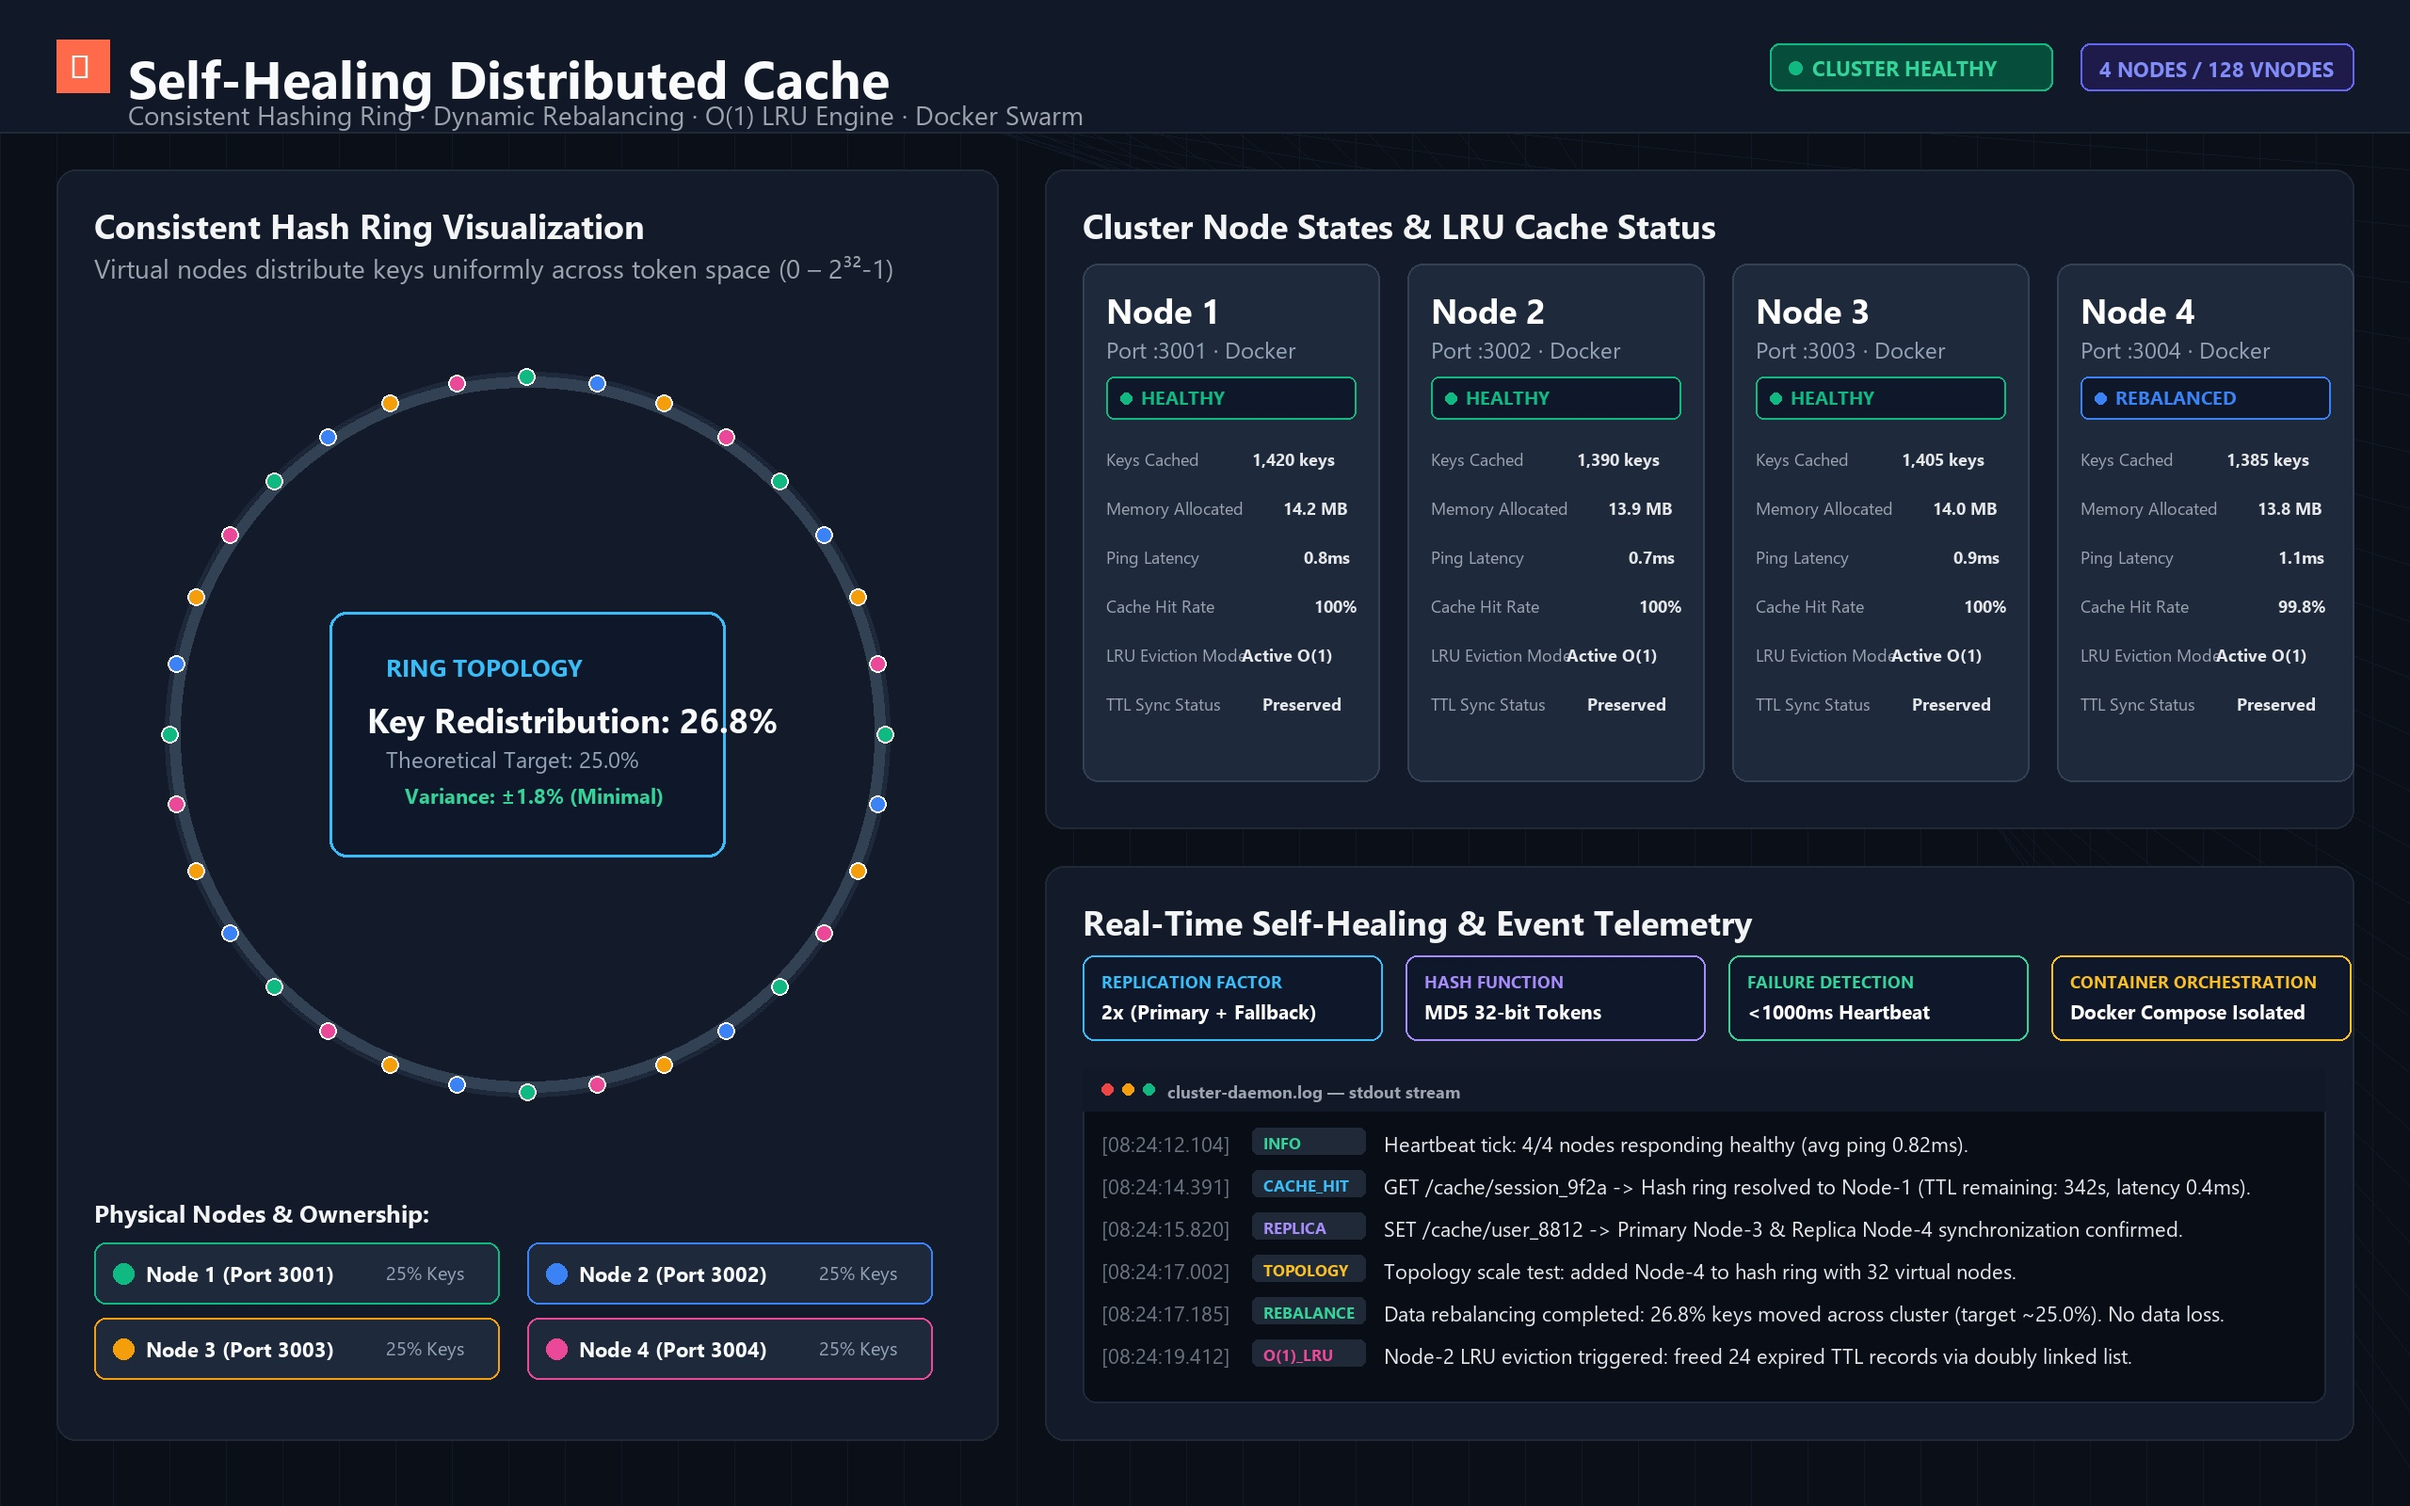
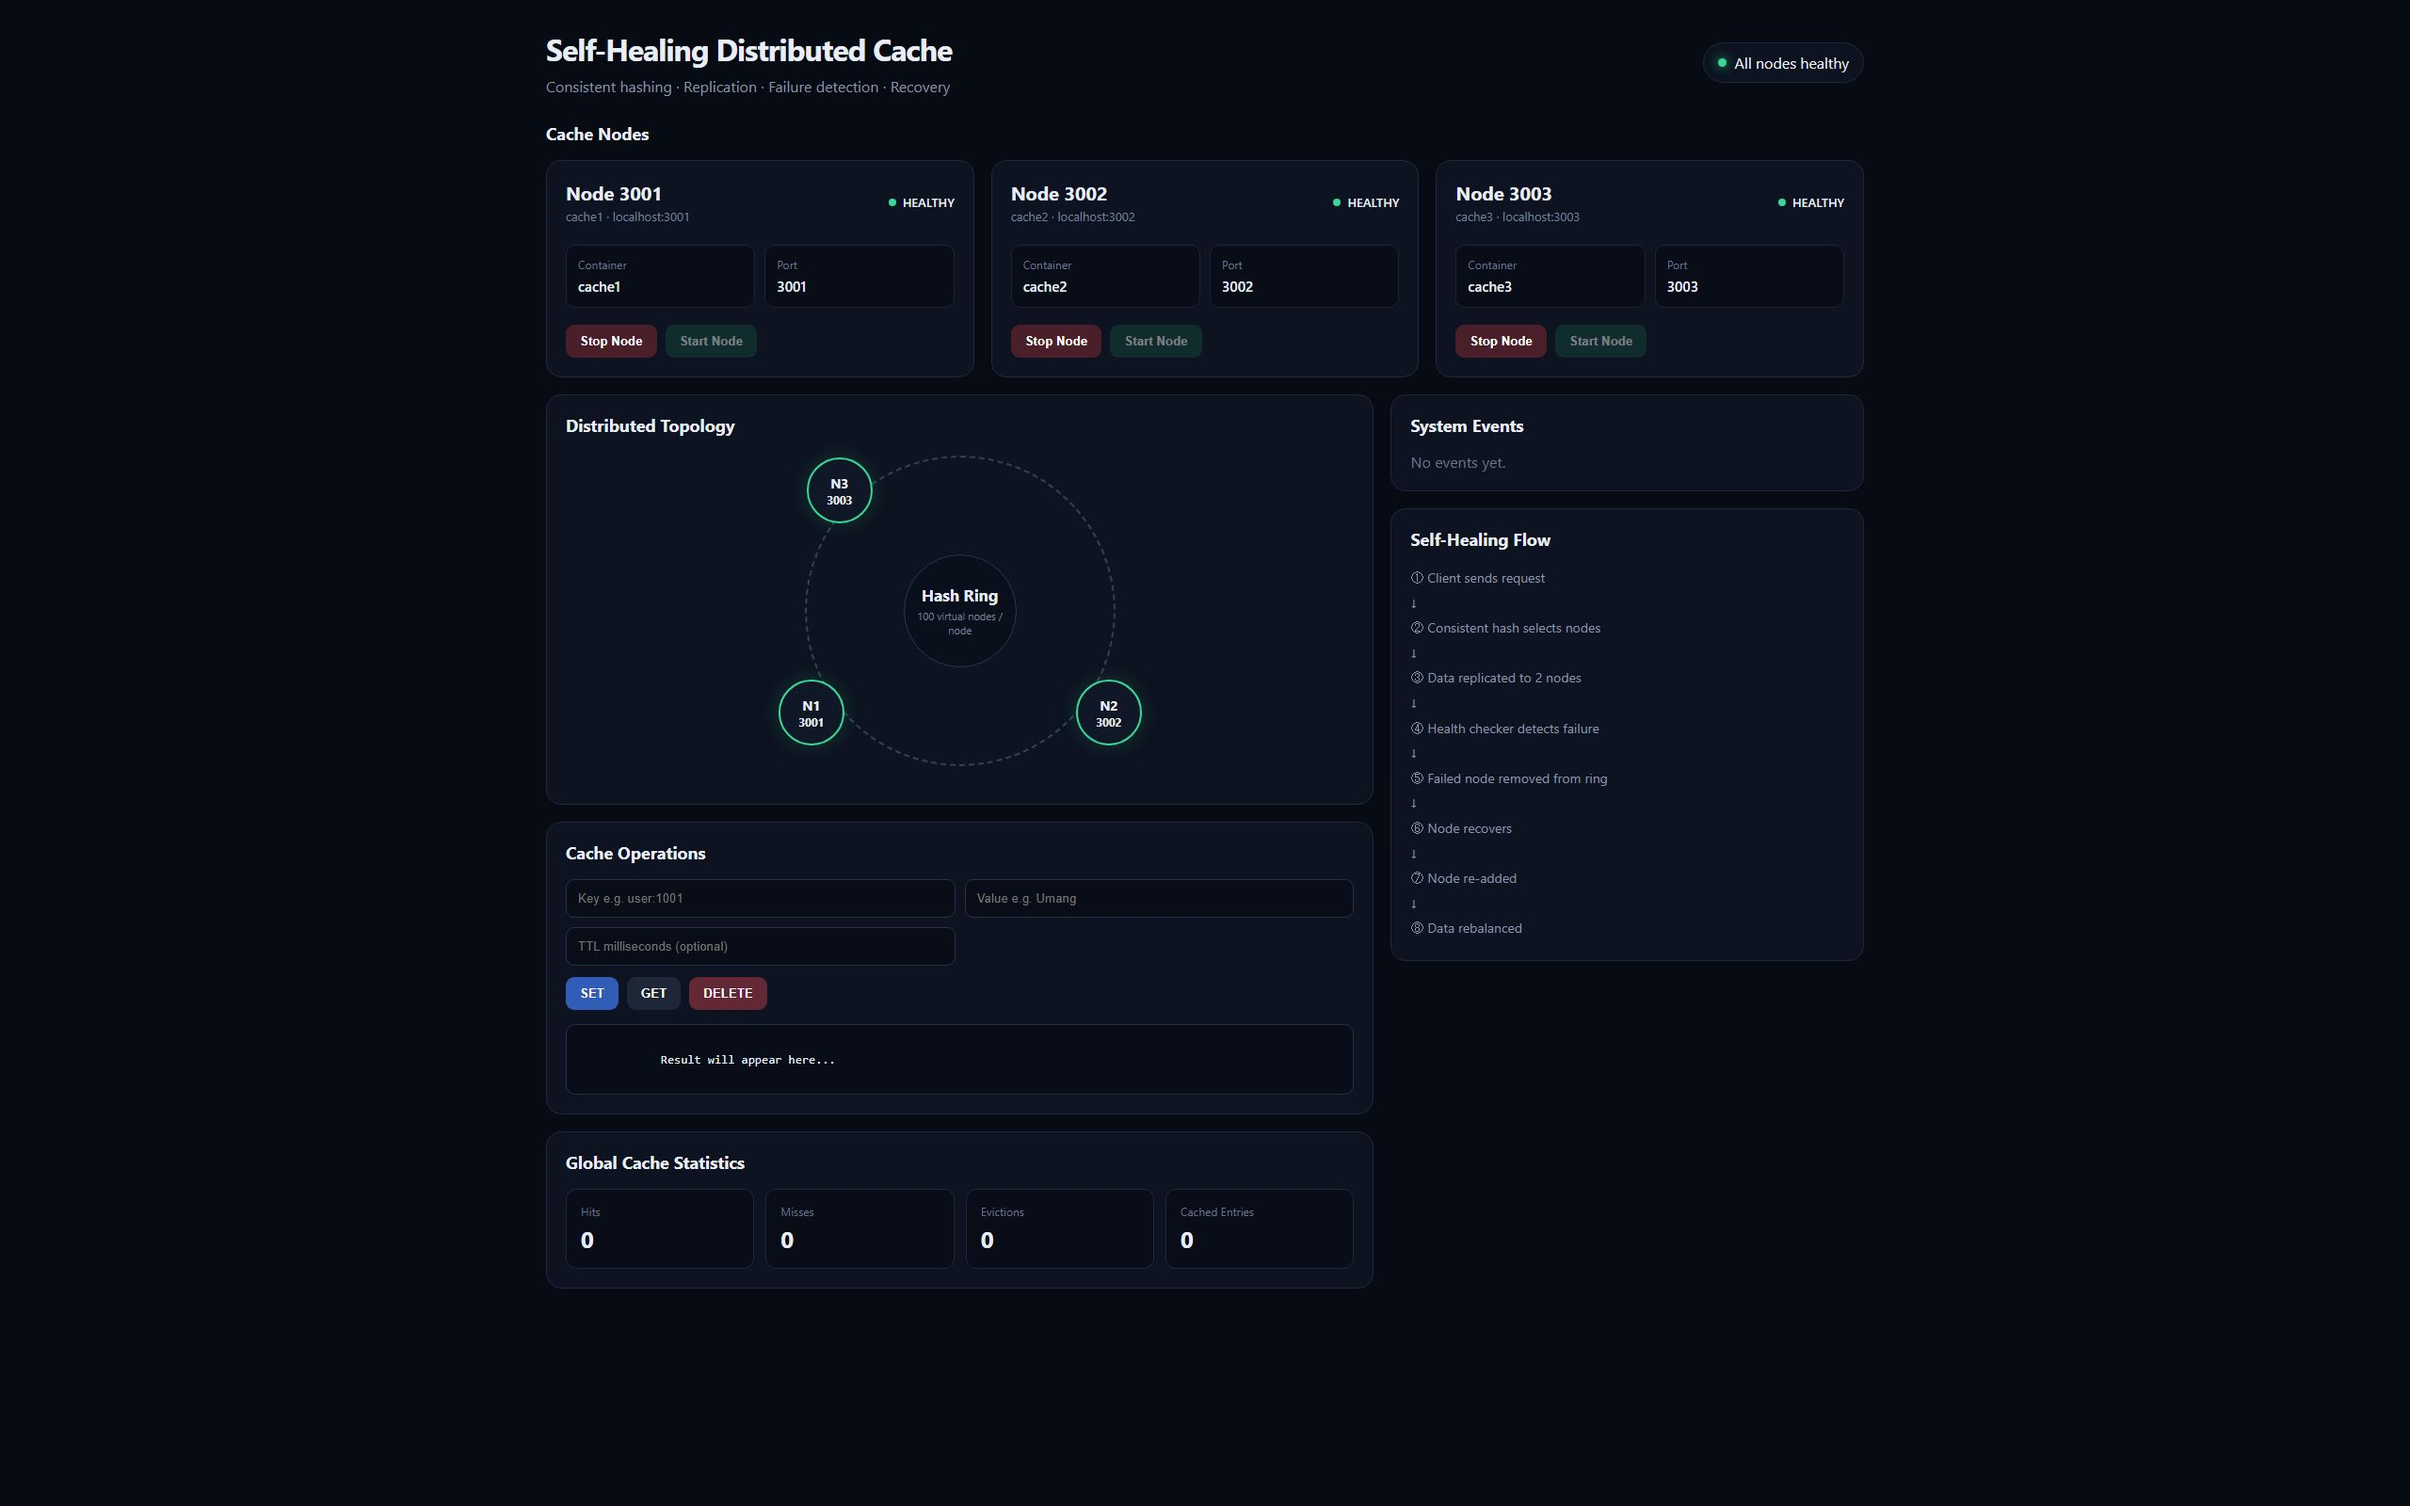
Update distributed cache live demo URL and screenshot, rename Blogify to NewsComplex

diff --git a/index.html b/index.html
@@ -372,7 +372,7 @@
         <div class="site-body">
           <img class="site-img active" id="siteImg0" src="./assets/codecomplex.jpg" alt="CodeComplex live screenshot">
           <img class="site-img" id="siteImg1" src="./assets/distributed_cache.jpg" alt="Self-Healing Distributed Cache architecture">
-          <img class="site-img" id="siteImg2" src="./assets/blogify.jpg" alt="Blogify live screenshot">
+          <img class="site-img" id="siteImg2" src="./assets/blogify.jpg" alt="NewsComplex live screenshot">
           <div class="site-dots-nav" id="siteDotsNav">
             <span class="active"></span><span></span><span></span>
           </div>
@@ -428,23 +428,24 @@
       </ul>
       <div class="project-links">
         <a href="https://github.com/sisodiaumang/Self-Healing-Distributed-Cache" target="_blank" rel="noopener">GitHub ↗</a>
+        <a href="https://self-healing-distributed-cache.onrender.com/" target="_blank" rel="noopener">Live demo ↗</a>
       </div>
     </div>
 
     <div class="project reveal">
       <div class="project-top">
-        <div class="project-title">Blogify</div>
+        <div class="project-title">NewsComplex</div>
         <div class="project-year">2025</div>
       </div>
       <div class="project-stack">Node.js · Express.js · MongoDB · EJS · Cloudinary · JWT</div>
       <ul>
-        <li><strong>SSR Editorial Platform:</strong> Developed a server-side rendered blogging platform supporting secure cookie-based session management, full CRUD operations, and password reset flows.</li>
+        <li><strong>SSR Editorial Platform:</strong> Developed a server-side rendered editorial platform supporting secure cookie-based session management, full CRUD operations, and password reset flows.</li>
         <li><strong>Automated Media Lifecycle:</strong> Built an image upload pipeline utilizing Multer and Cloudinary that automatically cleans up orphaned images upon blog post updates or removals.</li>
         <li><strong>Community & Search Indexing:</strong> Designed interactive community features including real-time nested comments/replies, markdown editor support, and dynamic search indexing on MongoDB for title-based queries.</li>
       </ul>
       <div class="project-links">
         <a href="https://github.com/sisodiaumang/Blogify" target="_blank" rel="noopener">GitHub ↗</a>
-        <a href="https://blogify-for-stories.vercel.app/" target="_blank" rel="noopener">Live demo ↗</a>
+        <a href="https://newscomplex.site" target="_blank" rel="noopener">Live demo ↗</a>
       </div>
     </div>
   </div>
@@ -650,8 +651,8 @@
   // hero live site slideshow — high-res rendered site screenshots
   const sites = [
     { url: 'https://codecomplex.site', label: 'codecomplex.site', caption: 'CodeComplex — real-time coding battles' },
-    { url: 'https://github.com/sisodiaumang/Self-Healing-Distributed-Cache', label: 'github.com/sisodiaumang/Self-Healing-Distributed-Cache', caption: 'Self-Healing Distributed Cache — consistent hashing & fault tolerance' },
-    { url: 'https://blogify-for-stories.vercel.app/', label: 'blogify-for-stories.vercel.app', caption: 'Blogify — server-rendered blogging platform' }
+    { url: 'https://self-healing-distributed-cache.onrender.com/', label: 'self-healing-distributed-cache.onrender.com', caption: 'Self-Healing Distributed Cache — consistent hashing & fault tolerance' },
+    { url: 'https://newscomplex.site', label: 'newscomplex.site', caption: 'NewsComplex — server-rendered publishing platform' }
   ];
   const siteImgs = [document.getElementById('siteImg0'), document.getElementById('siteImg1'), document.getElementById('siteImg2')];
   const siteUrlEl = document.getElementById('siteUrl');
